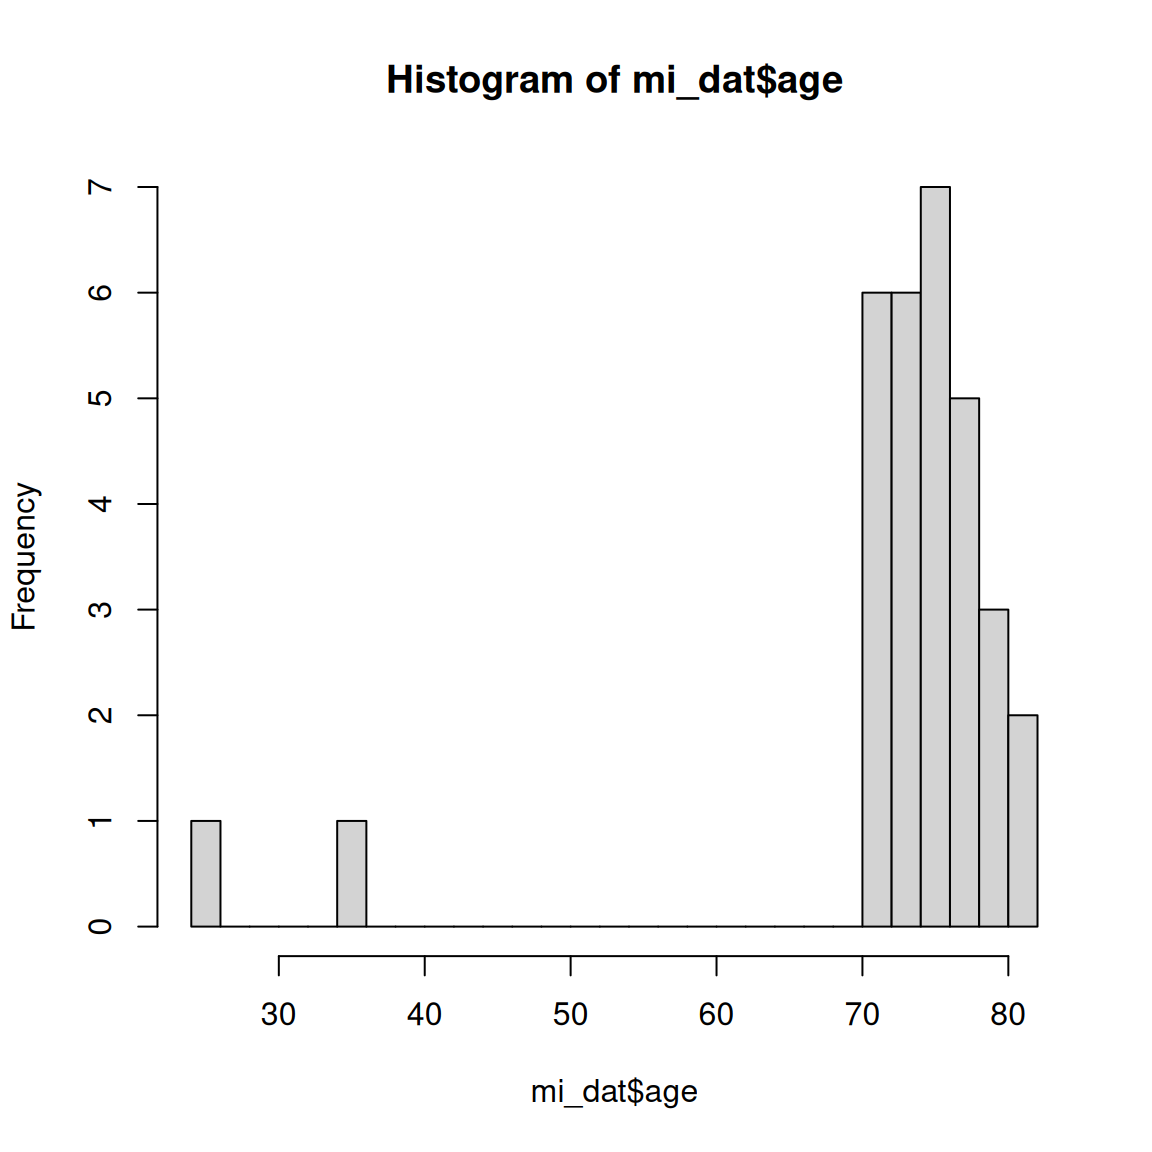
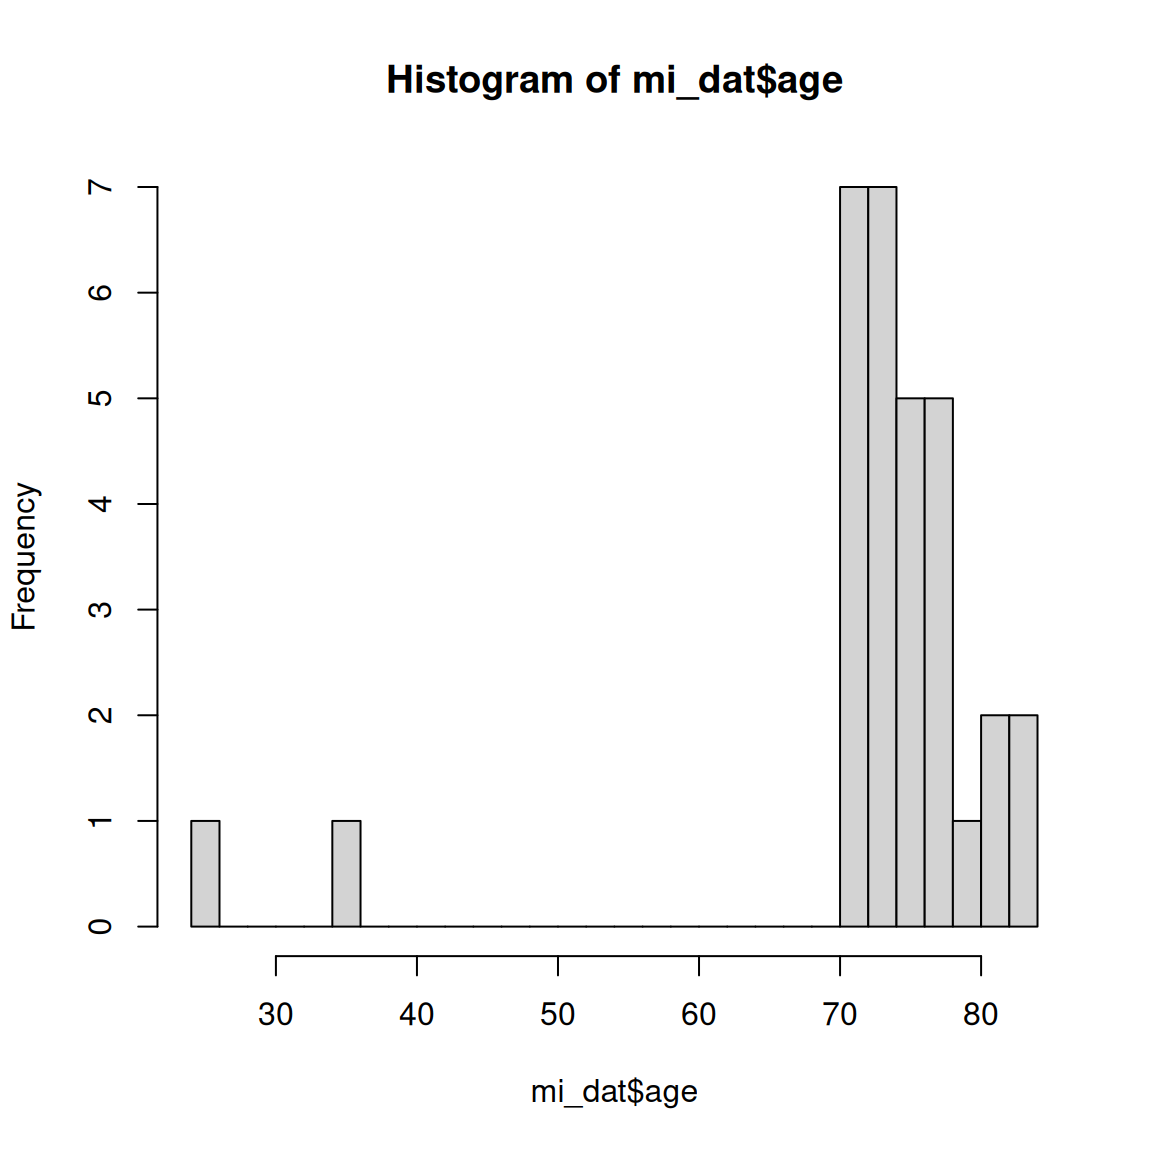
Update rendered slides

diff --git a/docs/statistics/bootstrap/index.html b/docs/statistics/bootstrap/index.html
@@ -199,43 +199,43 @@ Nozomi Niimi
 <tbody>
 <tr class="odd">
 <td style="text-align: right;">1</td>
-<td style="text-align: right;">22.01106</td>
+<td style="text-align: right;">19.05527</td>
 </tr>
 <tr class="even">
 <td style="text-align: right;">2</td>
-<td style="text-align: right;">24.16640</td>
+<td style="text-align: right;">21.32721</td>
 </tr>
 <tr class="odd">
 <td style="text-align: right;">3</td>
-<td style="text-align: right;">22.93927</td>
+<td style="text-align: right;">19.80856</td>
 </tr>
 <tr class="even">
 <td style="text-align: right;">4</td>
-<td style="text-align: right;">21.23770</td>
+<td style="text-align: right;">18.93980</td>
 </tr>
 <tr class="odd">
 <td style="text-align: right;">5</td>
-<td style="text-align: right;">22.08104</td>
+<td style="text-align: right;">15.57929</td>
 </tr>
 <tr class="even">
 <td style="text-align: right;">6</td>
-<td style="text-align: right;">20.13425</td>
+<td style="text-align: right;">19.20927</td>
 </tr>
 <tr class="odd">
 <td style="text-align: right;">7</td>
-<td style="text-align: right;">22.65376</td>
+<td style="text-align: right;">18.97715</td>
 </tr>
 <tr class="even">
 <td style="text-align: right;">8</td>
-<td style="text-align: right;">25.56158</td>
+<td style="text-align: right;">19.71768</td>
 </tr>
 <tr class="odd">
 <td style="text-align: right;">9</td>
-<td style="text-align: right;">20.04097</td>
+<td style="text-align: right;">21.92015</td>
 </tr>
 <tr class="even">
 <td style="text-align: right;">10</td>
-<td style="text-align: right;">19.37870</td>
+<td style="text-align: right;">21.17935</td>
 </tr>
 </tbody>
 </table>
@@ -331,20 +331,20 @@ Nozomi Niimi
 <tbody>
 <tr class="odd">
 <td style="text-align: right;">1</td>
-<td style="text-align: right;">79.54363</td>
-<td style="text-align: right;">176.2443</td>
+<td style="text-align: right;">72.41030</td>
+<td style="text-align: right;">187.1390</td>
 <td style="text-align: left;"></td>
 </tr>
 <tr class="even">
 <td style="text-align: right;">2</td>
-<td style="text-align: right;">73.56898</td>
-<td style="text-align: right;">192.5432</td>
+<td style="text-align: right;">70.25772</td>
+<td style="text-align: right;">206.1541</td>
 <td style="text-align: left;"></td>
 </tr>
 <tr class="odd">
 <td style="text-align: right;">3</td>
-<td style="text-align: right;">74.22304</td>
-<td style="text-align: right;">174.1898</td>
+<td style="text-align: right;">82.01995</td>
+<td style="text-align: right;">188.1119</td>
 <td style="text-align: left;"></td>
 </tr>
 <tr class="even">
